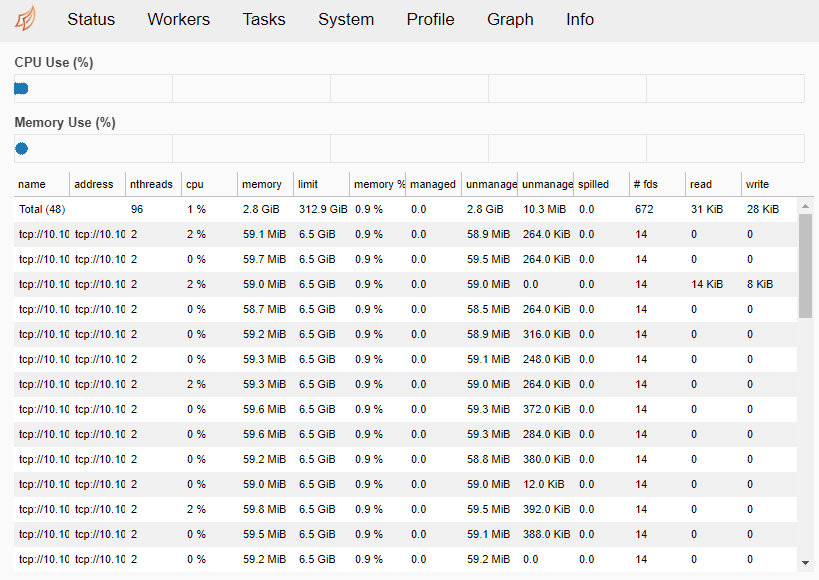
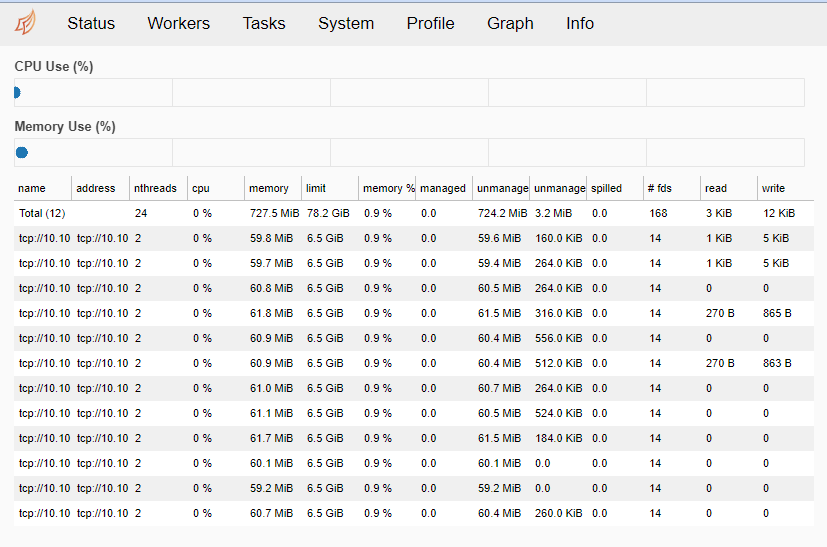
workshop fixes after testing

diff --git a/examples/dask/workshop-04.md b/examples/dask/workshop-04.md
@@ -39,7 +39,9 @@ This lab will get you connected to the notebook so you can access the dask envir
 
     ![DaskScheduler](workshop/0409-DaskScheduler.png)
 
-1. You'll scale out the number of dask cluster workers.  By default the notebook creates 48 Fargate tasks.  You'll want to shut these down if you decide not to finish with the notebook - for that you'll need to skip to the step at the end.
+1. Next step is to scale out the number of dask cluster workers.  By default the notebook creates 12 Fargate tasks.  Once the workers are running, a client connection to the dask scheduler is established, which shows some details about the cluster.
+
+   **NOTE** You'll want to shut the workers down if you decide not to finish with the notebook - for that you'll need to skip to the step at the end.
 
     ![ECSScaleOut](workshop/0408-ECSScaleOut.png)
 
@@ -47,7 +49,13 @@ This lab will get you connected to the notebook so you can access the dask envir
 
     ![DaskWorkers](workshop/0410-DaskWorkers.png)
 
-1. Return to your notebook instance tab and continue executing the steps.  You'll be taken through a series of introductory operations, opening files, loading datasets and displaying some information about the objects.  When you reach the `client.persist()` step, your dask tasks will being execution.  The first one of these loads all data into dask worker memory, as explained in the notebook.
+1. Return to your notebook instance tab and continue executing the steps.  You'll be taken through a series of introductory operations, opening files, loading datasets and displaying some information about the objects.  Eventually you'll see a graphic like the following, which gives you an understanding of the number of dask tasks that are queued up.
+
+    In this case you can see that the data array will be nearly 68GiB in size, with 2456 tasks to be executed across 1216 chunks of data.  
+
+    ![DaskTasks](workshop/04101-DaskTasks.png)
+
+1. When you reach the `client.persist()` step, your dask tasks will being execution.  The first one of these loads all data into dask worker memory, as explained in the notebook.
 
     ![DaskJob](workshop/0411-DaskJob.png)
 
@@ -58,7 +66,7 @@ This lab will get you connected to the notebook so you can access the dask envir
     The task will take 4-5 minutes to complete.
 
 1. Once data is loaded, the notebook will guide you through a number of calculations on the data, including:
-    * Conversion of the temperature units from K to C (a simple substraction - but over **54 billion** calculations!)
+    * Conversion of the temperature units from K to C (a simple substraction - but over **18 billion** calculations!)
     * Calculation of the mean and standard deviation of temperature for every point
     * Extraction of time series data for specific points into a table format and plotted as a line graph
 
